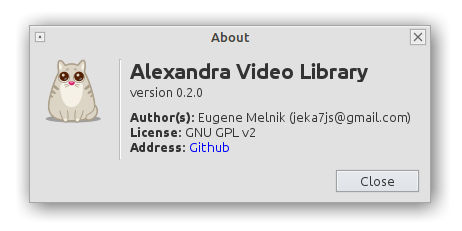
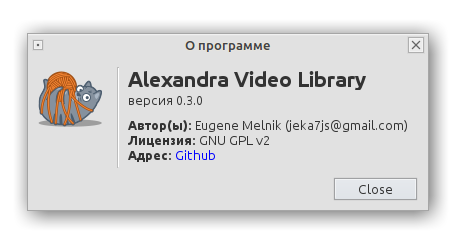
v0.3

Changed region(s): [[0.0606, 0.0606, 0.9697, 0.9091]]

diff --git a/src/version.h b/src/version.h
@@ -15,7 +15,7 @@ namespace Alexandra
         const QString orgDomain = "higggs.com";
 
         const quint8 major = 0;
-        const quint8 minor = 2;
+        const quint8 minor = 3;
         const quint8 fix = 0;
         const QString appVersionFull = QString( "%1.%2.%3" ).arg( major ).arg( minor ).arg( fix );
 }

diff --git a/README.md b/README.md
@@ -1,5 +1,5 @@
 ### Alexandra Video library
-#### v0.2
+#### v0.3
 
 ===
 
